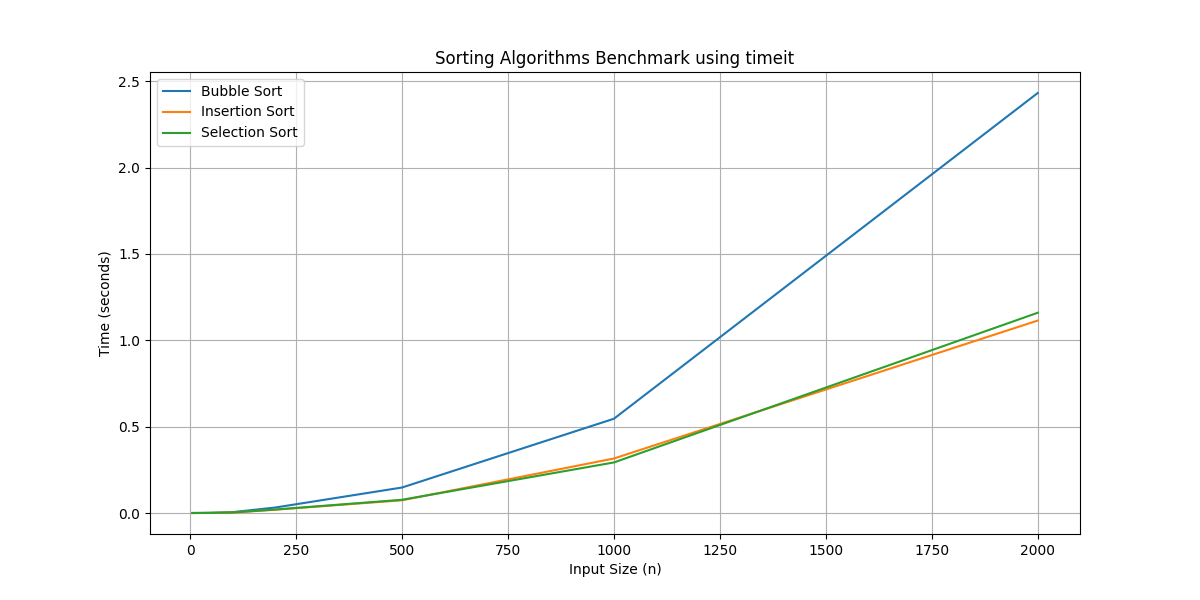
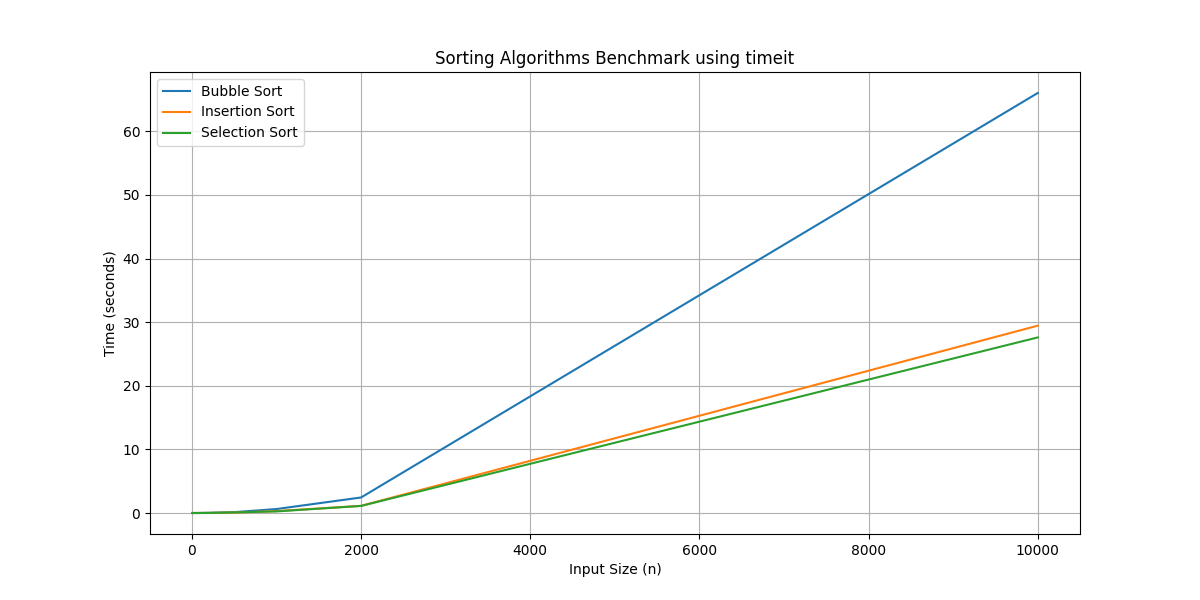
benchmark test successful

diff --git a/benchmark_test.py b/benchmark_test.py
@@ -1,10 +1,10 @@
 import timeit
 import random
-import matplotlib.pyplot as plt
+import matplotlib.pyplot as plt # type: ignore
 import os
 
 def benchmark_sorting_algorithms():
-    input_sizes = [5, 10, 20, 50, 100, 200, 500, 1000, 2000]
+    input_sizes = [5, 10, 20, 50, 100, 200, 500, 1000, 2000, 9999]
     bubble_sort_times = []
     insertion_sort_times = []
     selection_sort_times = []
